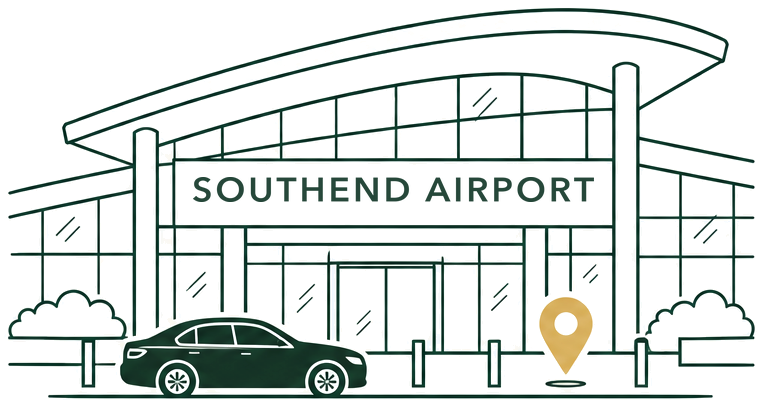
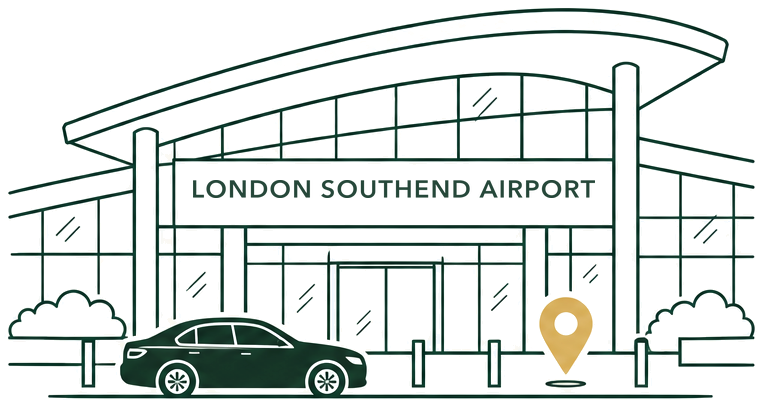
Use the name London Southend Airport across the site
Rename the airport in site config so headings, navigation, cards and image
descriptions follow, and re-letter its arrival illustration. The short
journey illustrations keep Southend as a space-limited label.

Changed region(s): [[0.2415, 0.4138, 0.7848, 0.5025]]

diff --git a/src/config/airportDetails.ts b/src/config/airportDetails.ts
@@ -406,12 +406,12 @@ export const airportDetails: Record<string, AirportDetail> = {
     "London City charges for its drop-off zone.",
   ),
   southend: oneTerminal(
-    "Southend",
-    { heading: "Small airport. Simple ride.", text: "A calm journey to or from Southend Airport." },
+    "London Southend",
+    { heading: "Small airport. Simple ride.", text: "A calm journey to or from London Southend Airport." },
     southendCard,
     { to: southendTo, from: southendFrom, arrival: southendArrival },
-    "Southend’s pickups use its Express Pick-up and Drop-off area or the Superior car park. Your booking confirmation will say where to meet.",
+    "London Southend’s pickups use its Express Pick-up and Drop-off area or the Superior car park. Your booking confirmation will say where to meet.",
     "Your booking confirmation is always your final instruction. Last checked on southendairport.com on 6 November 2026.",
-    "Southend charges for its Express Pick-up and Drop-off area and Superior car park.",
+    "London Southend charges for its Express Pick-up and Drop-off area and Superior car park.",
   ),
 };

diff --git a/src/components/Faq.tsx b/src/components/Faq.tsx
@@ -11,7 +11,7 @@ const homepageFaqs = [
   },
   {
     q: "Which airports do you cover?",
-    a: "Transfers to and from all UK airports, including Luton, Heathrow, Gatwick, Stansted, London City and Southend, with flight tracking and meet and greet.",
+    a: "Transfers to and from all UK airports, including Luton, Heathrow, Gatwick, Stansted, London City and London Southend, with flight tracking and meet and greet.",
   },
   {
     q: "How can I pay?",

diff --git a/src/config/site.ts b/src/config/site.ts
@@ -29,7 +29,7 @@ export const airports: AirportEntry[] = [
   { slug: "gatwick", name: "Gatwick", code: "LGW" },
   { slug: "stansted", name: "Stansted", code: "STN" },
   { slug: "london-city", name: "London City", code: "LCY" },
-  { slug: "southend", name: "Southend", code: "SEN" },
+  { slug: "southend", name: "London Southend", code: "SEN" },
 ];
 
 // Grouped on /airports, each with a short page at /airports/[slug] (noindex, and

diff --git a/requirement.md b/requirement.md
@@ -43,19 +43,20 @@ Business brief, approved decisions and open items for **lutonminicab.com**. Keep
 - **Main focus:** Luton and the surrounding areas.
 - **Additional pickup areas:** Hounslow, Mill Hill and Heathrow.
 - **Confirmed pickup coverage** (updated November 2026): Luton (including Leagrave and Stopsley), Dunstable, Houghton Regis, Harpenden, Mill Hill, Hounslow and Heathrow, each with its own page at /areas/[slug].
-- **Airports:** transfers to and from all UK airports. The menu names six (Luton, Heathrow, Gatwick, Stansted, London City, Southend), each with its own page, plus "View All Airports". This replaces the earlier "don't list airports individually" decision (owner's request, November 2026). Nine more are listed on /airports with short pages (see below). Other UK airports are still covered.
+- **Airports:** transfers to and from all UK airports. The menu names six (Luton, Heathrow, Gatwick, Stansted, London City, London Southend), each with its own page, plus "View All Airports". This replaces the earlier "don't list airports individually" decision (owner's request, November 2026). Nine more are listed on /airports with short pages (see below). Other UK airports are still covered.
 - **Hero standard** (November 2026): all pages follow EYEBROW → headline → sentence → buttons → trust.
   - Home: "Your everyday journeys. Taken care of."
   - Airports: "{NAME} AIRPORT TRANSFERS", with heading and text chosen per airport (see Airport heroes below).
   - Areas: "TAXIS IN {NAME}" / "Your local ride, close to home." / the area intro.
   - /areas: "Your local ride. Wherever life takes you."
   - Page titles keep the location for search (e.g. "Heathrow Airport Transfers", "Taxis in Dunstable").
-- **Airport heroes** (November 2026): each airport has its own photo (`public/brand/airport-<slug>-hero.png`; Luton uses `airport-luton-terminal-hero.png`, an outside view with the number plate blanked) and owner-chosen wording, under the eyebrow "[AIRPORT] AIRPORT TRANSFERS", with Book Online and Call to Book. Luton: "Your local ride to Luton Airport." / "Sit back and relax. We'll take care of the road." Heathrow: "Landing at Heathrow? We'll take you home." / "After a long flight, all you need to do is sit back." Gatwick: "Back at Gatwick? Let's get you home." / "You've done the flying. We'll do the driving." Stansted: "Your holiday starts at your front door." / "We'll drive you to Stansted, so you can start relaxing early." London City: "Quick flight. Easy ride." / "To or from London City Airport, we'll keep it simple." Southend: "Small airport. Simple ride." / "A calm journey to or from Southend Airport." These are AI images and must not be presented as real photos of the airport or our cars.
+- **Airport heroes** (November 2026): each airport has its own photo (`public/brand/airport-<slug>-hero.png`; Luton uses `airport-luton-terminal-hero.png`, an outside view with the number plate blanked) and owner-chosen wording, under the eyebrow "[AIRPORT] AIRPORT TRANSFERS", with Book Online and Call to Book. Luton: "Your local ride to Luton Airport." / "Sit back and relax. We'll take care of the road." Heathrow: "Landing at Heathrow? We'll take you home." / "After a long flight, all you need to do is sit back." Gatwick: "Back at Gatwick? Let's get you home." / "You've done the flying. We'll do the driving." Stansted: "Your holiday starts at your front door." / "We'll drive you to Stansted, so you can start relaxing early." London City: "Quick flight. Easy ride." / "To or from London City Airport, we'll keep it simple." London Southend: "Small airport. Simple ride." / "A calm journey to or from London Southend Airport." These are AI images and must not be presented as real photos of the airport or our cars.
 - **Airport pages approved** (November 2026): /airports/[slug] for the six airports, indexable. All six now use the layout described in the airport notes below. Rules: no specific meeting point ("your driver meets you at the airport; we'll share your driver's details before you travel"), no free-waiting or delay-charge promises (flight tracking only), and no luggage or passenger numbers.
 - **Luton Airport page** (November 2026): /airports/luton has its own sections: Luton Airport journeys (eyebrow "LUTON AIRPORT JOURNEYS", heading "Flying out or heading home?", sub-line "A simple journey, whichever way you're going.", then "To Luton Airport" and "From Luton Airport" with Book Online, taken from the owner's reference), Meeting your driver (eyebrow "MEETING YOUR DRIVER", heading "Landed? Here's what happens next.", sub-line "Three simple steps from arrivals to your next stop.", then 01 Collect your bags, 02 Check your pickup details, 03 Meet your driver, wording from the owner's reference), Travel your way (eyebrow "TRAVEL YOUR WAY", heading "A car for every kind of journey.", sub-line "A trip for one, a family holiday or a day of meetings. Find your fit.", three choices: Just you, or two (Saloon · Estate), Bringing everyone? (MPV6 · MPV Plus · MPV7), Travelling for work? (Executive), then View Our Fleet and "Choose your vehicle when booking."), and an FAQ styled like the homepage ("FAQS", "Got a question?", "Here are a few helpful answers.", "Need more help? Contact us") with four Luton questions (meeting your driver, flight delays, waiting time, child seats). The meeting section (merged, November 2026, to avoid repetition) also has "Before you head outside" and "Can't find your driver?", and no pickup location is named; owner to confirm whether the airport's charge is added to the quote. The page also has "Picking you up across Luton" (six local area links). No airport prices are shown, as the airport's own pages differ. The section promises "meeting instructions" and an "agreed meeting point", so booking confirmations must include them. Owner confirmed (November 2026): passengers meet the driver at the agreed point or where the driver tells them, and the driver waits free for 15 minutes, starting once they reach the pickup point at the agreed time. After that, waiting charges apply, and these are discussed with the customer before the booking is confirmed. The rate isn't stated on the site. This page shows no capacities. The other airports keep the shared wording.
 - **Heathrow Airport page** (November 2026): /airports/heathrow uses the Luton layout, with "To Heathrow Airport" and "From Heathrow Airport", "Landed at Heathrow? Here's what happens next.", a terminal board for T2 to T5, "Before you head outside", "Can't find your driver?", and its own questions. Meeting points and pickup rules were checked on heathrow.com on 5 November 2026 and must be rechecked regularly, because Heathrow's arrangements change. No Heathrow prices appear. Taken from heathrowminicab.com on the assumption it's the same business (owner to confirm): Terminals 2 to 5 covered, name board or agreed pickup point, 15 free minutes, drop-off charge added to the quote. Booking confirmations must match this page, including the T4 pickup and the T5 meeting point.
 - **Gatwick Airport page** (November 2026): /airports/gatwick uses the same layout, with "Landed at Gatwick? Here's what happens next." and a terminal board for North and South. Gatwick names no public meeting point, so the board points to the booking confirmation. Express pick-up bays (North: Car Park 6, Level 4; South: Car Park 3, ground floor) were checked on gatwickairport.com on 6 November 2026 and must be rechecked regularly. No prices appear. Owner to confirm: both terminals are served, where drivers actually meet passengers, whether the 15 free minutes applies (the page says to ask), and whether airport charges go on the quote. Booking confirmations must include the meeting details for each terminal.
-- **Stansted, London City and Southend pages** (November 2026): all use the one-terminal layout, with a "Good to know" pickup line and their own charges answer. Stansted and Southend were checked on the airports' sites on 6 November 2026. London City blocks automated reading, so its line comes from its FAQ as shown in search results and should be checked by hand. No prices appear. The waiting and charges answers say to ask, because the owner hasn't confirmed them for these airports. Owner to confirm: where drivers actually meet passengers, whether the 15 free minutes applies, whether airport charges go on the quote, and "Southend" or "London Southend".
+- **Airport name** (owner's decision, November 2026): use "London Southend Airport" everywhere. "Southend" is only a short label where space is limited, such as the small journey illustrations. The URL stays /airports/southend.
+- **Stansted, London City and London Southend pages** (November 2026): all use the one-terminal layout, with a "Good to know" pickup line and their own charges answer. Stansted and Southend were checked on the airports' sites on 6 November 2026. London City blocks automated reading, so its line comes from its FAQ as shown in search results and should be checked by hand. No prices appear. The waiting and charges answers say to ask, because the owner hasn't confirmed them for these airports. Owner to confirm: where drivers actually meet passengers, whether the 15 free minutes applies, whether airport charges go on the quote.
 - **All Airports page approved** (November 2026): /airports is indexable, with a compact hero (heading "Which airport are you travelling to or from?", line "Pick your airport, and leave the road to us."), then six photo cards for the main airports with practical lines, then "Other UK airports" by region (Midlands: Birmingham, East Midlands; North of England: Manchester; Scotland: Edinburgh, Inverness; Wales: Aberporth, Cardiff, Pembrey, Swansea). Aberporth, Pembrey and Swansea stay listed (owner confirmed, November 2026: they're in the booking system's airport list), even though they may have no regular passenger flights.
 - **Short airport pages** (November 2026): each of those nine links to a short page at /airports/[slug] (hero, How to book, links to other airports), set to `noindex`. They use Book Online and Call to Book, on the assumption that the booker can price them (they're in the airport API; owner to confirm). They make no flight tracking, meet and greet, landing, price or journey-time claims. Only give an airport a full, indexable page once there are real details for it, not just a changed name.
 - **Area pages approved** (November 2026): /areas (overview) plus one page per area at /areas/[slug] (Luton, Leagrave, Stopsley, Dunstable, Houghton Regis, Harpenden, Mill Hill, Hounslow, Heathrow). They're indexable, built from confirmed services and benefits plus a short factual location line, with no journey times, prices or local claims unless supplied.
@@ -123,7 +124,7 @@ Business brief, approved decisions and open items for **lutonminicab.com**. Keep
 ## 13. Site structure
 **Navigation** (November 2026):
 - Home
-- **Airports** ▾: Luton, Heathrow, Gatwick, Stansted, London City, Southend, plus "View All Airports"
+- **Airports** ▾: Luton, Heathrow, Gatwick, Stansted, London City, London Southend, plus "View All Airports"
 - **Our Services** ▾: Local Journeys, School Runs, Corporate Travel, Long-Distance Travel, Station & Hotel Transfers, plus "All services"
 - Our Fleet
 - **Areas We Cover** ▾: the nine areas, plus "All areas"

diff --git a/CLAUDE.md b/CLAUDE.md
@@ -42,7 +42,7 @@ Marketing site for **Luton Minicab** (operated by A2B Radio Cars). Business rule
 - **Airports section** (`Airports.tsx`): a featured Luton card plus a list of the other airports from `airports` in `site.ts`. Photo: `public/brand/airport-luton.png` (original in `assets/brand/airport-luton-original.png`).
 - **Airport photo heroes:** every airport page uses `PageHero`, with its heading and text from `hero` in `airportDetails.ts`, and all six airports have their own photo, set in `heroPhotos` in `AirportPage.tsx` (image, alt, optional `fade`). Luton has an outside view using `photoRight` (uncropped on the right at desktop, its left edge blended into the page by a mask); the back-seat `airport-luton-hero` stays on /airports and the short pages, as it has no sign. The others share `photoFade`, which ends before the terminal signs. Keep alt text neutral, because these are AI images. Measure contrast behind every hero text line (4.5:1 or better) when you change a photo or fade.
 - **Airport pages:** `AirportPage.tsx` renders /airports/[slug] (indexable) for the six in `airports`. Each needs a photo in `heroPhotos` and an entry in `airportDetails`. The vehicle images are shared as `fleet` in `site.ts`, used by `Vehicles.tsx` and `AirportFleet`.
-- **Airport layout:** all six airports have entries in `src/config/airportDetails.ts` (hero, journeys, three meeting steps, questions), which `AirportPage.tsx` renders with `AirportJourneys`, `AirportMeetDriver`, `AirportFleet` and the homepage `Faq` (with `items`, `band`, and other-airport links as `children`). Stansted, London City and Southend use the `oneTerminal` helper. To add one, add an entry and its illustrations, and only state what the owner has confirmed for that airport (the 15 free minutes is confirmed for Luton and Heathrow only).
+- **Airport layout:** all six airports have entries in `src/config/airportDetails.ts` (hero, journeys, three meeting steps, questions), which `AirportPage.tsx` renders with `AirportJourneys`, `AirportMeetDriver`, `AirportFleet` and the homepage `Faq` (with `items`, `band`, and other-airport links as `children`). Stansted, London City and London Southend use the `oneTerminal` helper. Use "London Southend Airport", not "Southend", except as a short label where space is limited (the small journey illustrations); the slug stays `southend`. To add one, add an entry and its illustrations, and only state what the owner has confirmed for that airport (the 15 free minutes is confirmed for Luton and Heathrow only).
   - The journey illustrations must stay on plain cream, so `AirportJourneys` isn't `band-alt`; the sections after it swap tone. Luton's are cropped from `assets/brand/luton-journeys-reference.png`. The other airports' are copies of those with only the label re-lettered (Avenir Next Demi Bold).
   - `AirportMeetDriver` icons (`public/brand/luton-step-*.png`) are transparent cut-outs from `assets/brand/luton-meet-driver-reference.png`, shared by all airports, and the rings are CSS.
   - `AirportGuide.tsx` is an optional green board with terminal tabs, shown when an entry has `guide` (Heathrow's numbered terminals, Gatwick's named ones), followed by the "Before you head outside" box. All panels stay in the HTML. Facts come from the airports' own sites: recheck them regularly and update the date in `note`.

diff --git a/CONTENT-BRIEFS.md b/CONTENT-BRIEFS.md
@@ -91,7 +91,7 @@ Briefs for the pages that are still **holding pages**: Services, Our Fleet, Area
 - Any response-time wording you're comfortable promising? If not, say nothing.
 
 ## 6. Airport pages (`/airports` and `/airports/[slug]`)
-**Purpose:** one page per main airport (Luton, Heathrow, Gatwick, Stansted, London City, Southend), for passengers searching for that airport. The `/airports` overview is live and also lists nine more airports by region. Those have short `noindex` pages; give one a full page only when there are real details for it.
+**Purpose:** one page per main airport (Luton, Heathrow, Gatwick, Stansted, London City, London Southend), for passengers searching for that airport. The `/airports` overview is live and also lists nine more airports by region. Those have short `noindex` pages; give one a full page only when there are real details for it.
 
 **Can use:** transfers to and from the airport, flight tracking, meet and greet, fixed fares, 24/7, child seats on request, and pickups across Luton plus Mill Hill, Hounslow and Heathrow.
 
